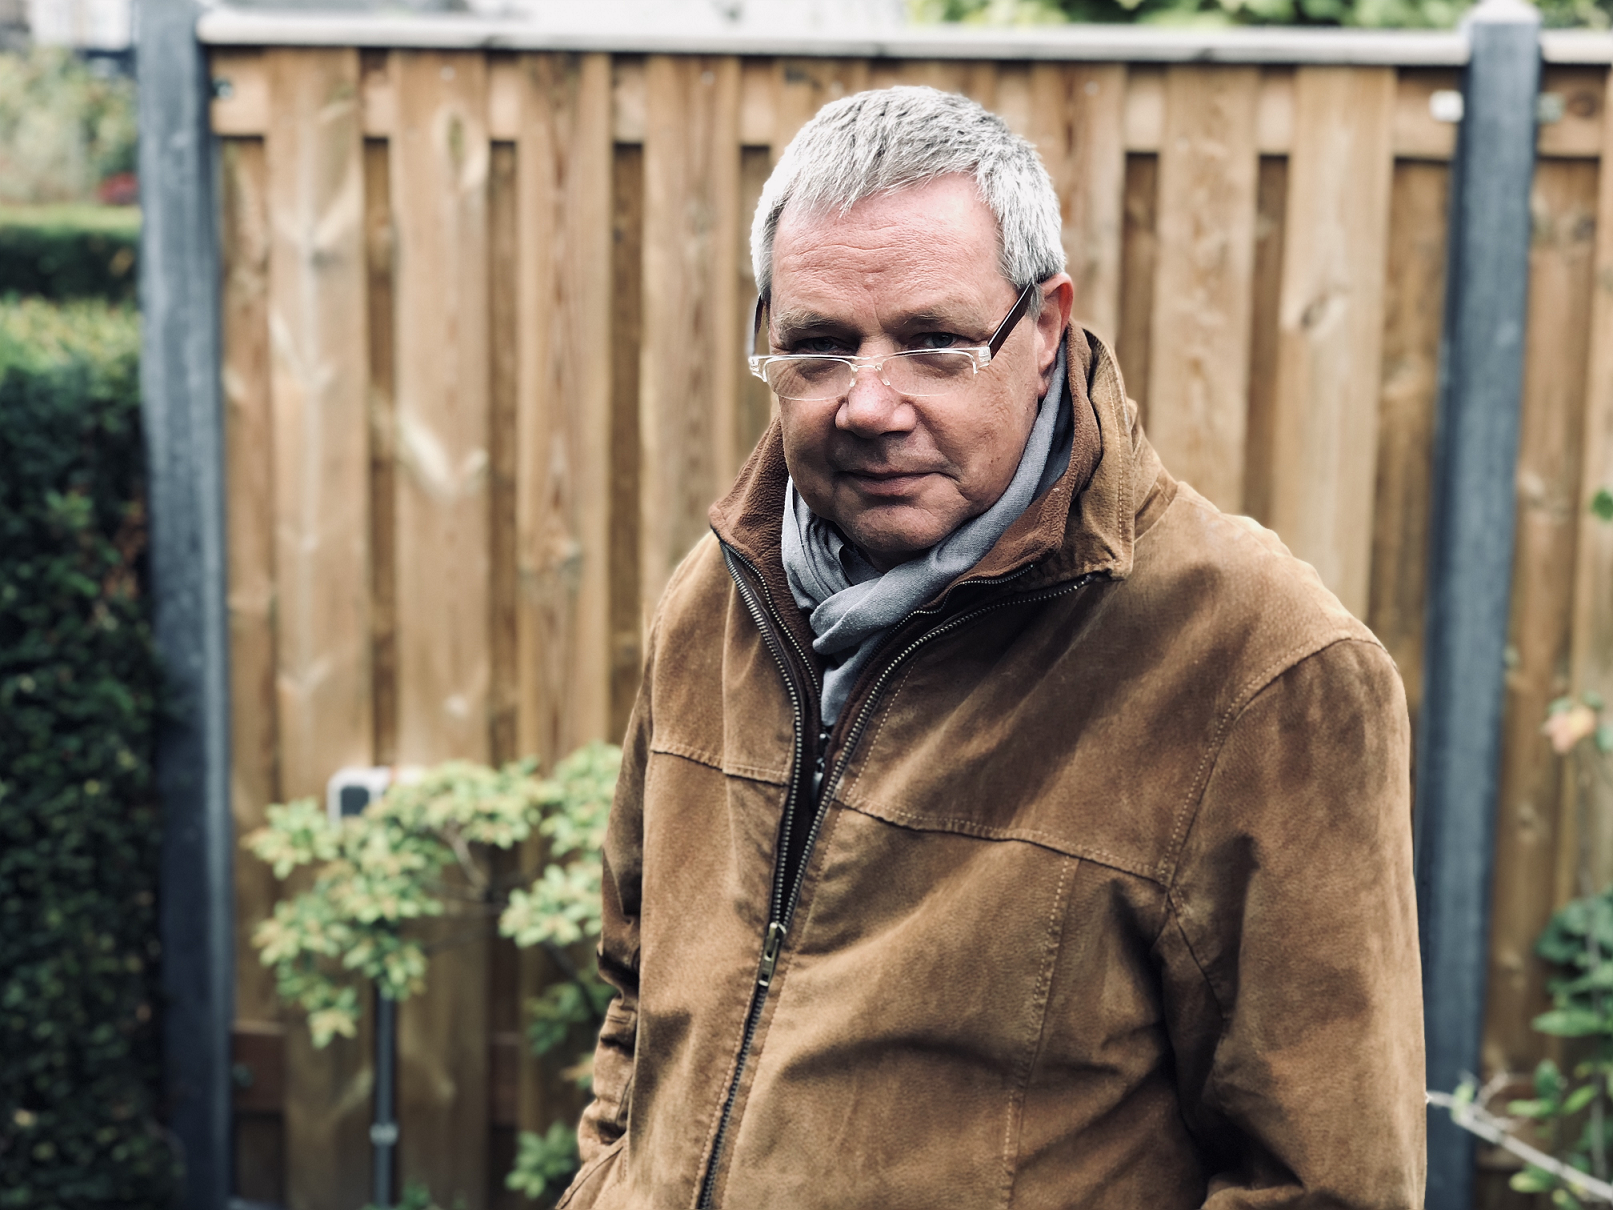
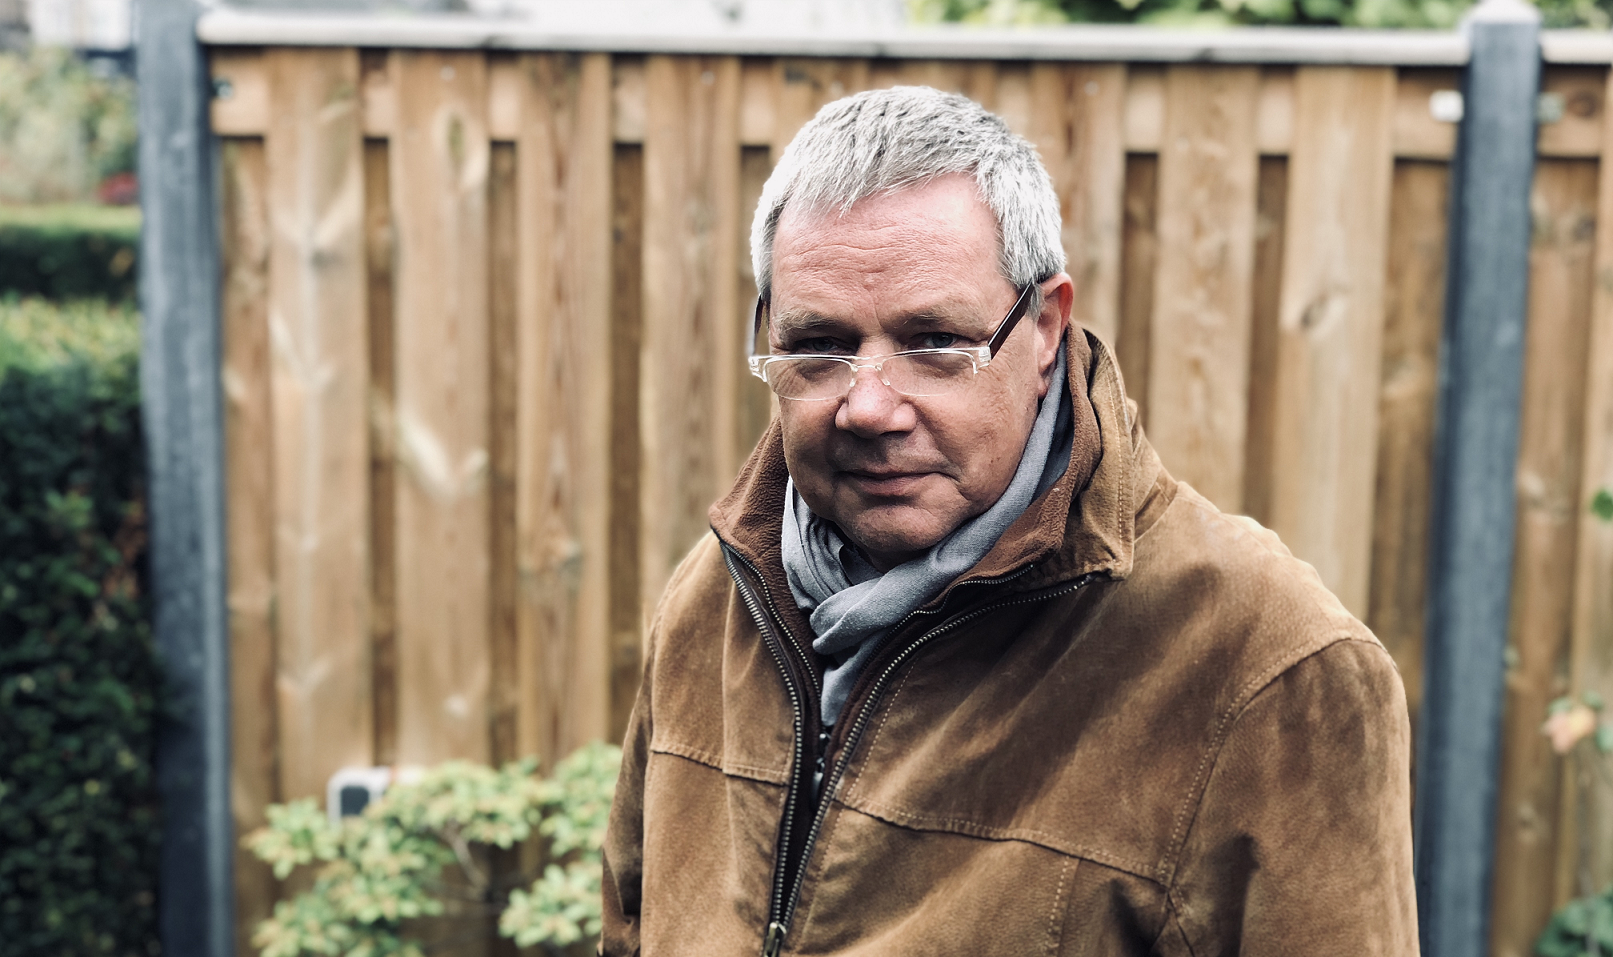
anno baackkkgroundd upddaaate

diff --git a/css/styles.css b/css/styles.css
@@ -465,6 +465,20 @@ h5 {
     padding-bottom: 5%;
   }
 
+  /* anno */
+  #anno {
+    background:
+    /* top, transparent black, faked with gradient */ linear-gradient(
+        rgba(0, 0, 0, 0.4),
+        rgba(0, 0, 0, 0.7)
+      ),
+      /* bottom, image */
+        url("https://b-737.github.io/Houdt-van-Oud/resources/images/theowner-lg.png");
+    background-repeat: no-repeat;
+    background-position: center center;
+    background-size: cover;
+  }
+
   /* recent  */
   .carousel-indicators {
     width: 20vw;
